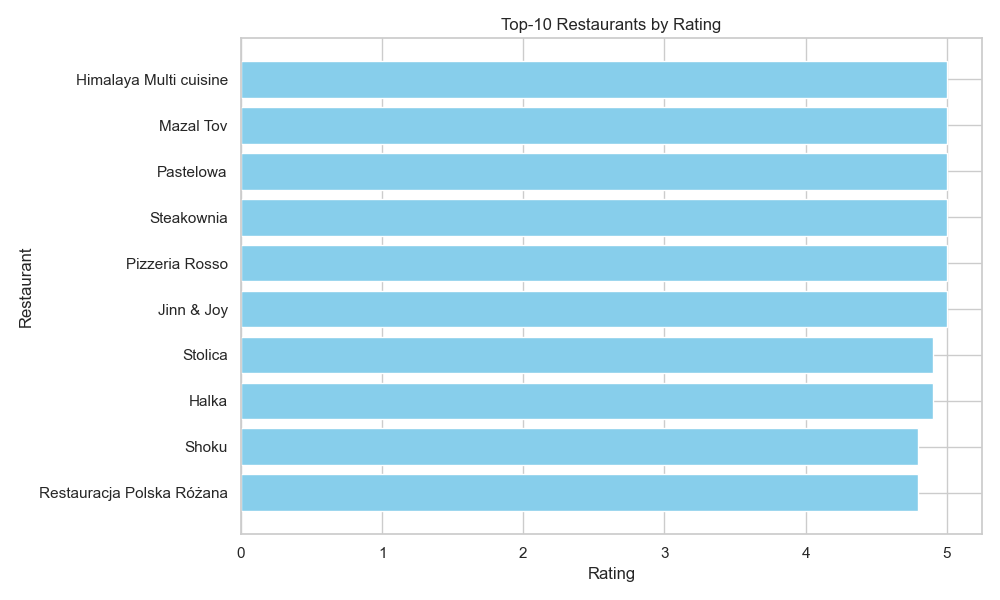
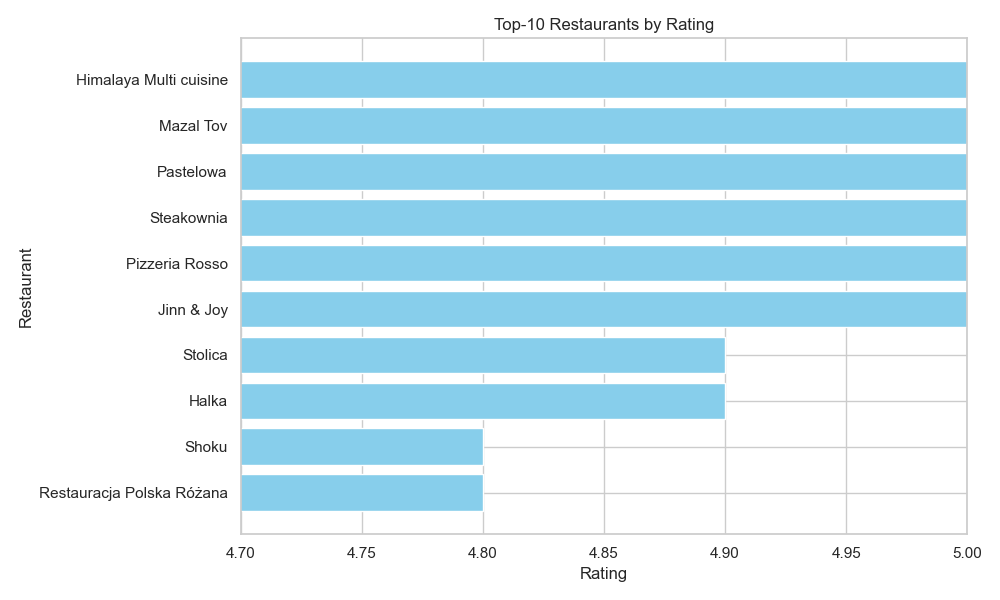
Update top 10 rating chart with custom x-axis scale

diff --git a/sql_analysis.py b/sql_analysis.py
@@ -127,6 +127,7 @@ try:
     plt.title("Top-10 Restaurants by Rating")
     plt.xlabel("Rating")
     plt.ylabel("Restaurant")
+    plt.xlim(4.7, 5)
     plt.tight_layout()
     plt.savefig("plots/plot_top10_rating.png")
     plt.close()
@@ -136,10 +137,10 @@ except Exception as e:
 
 try:
     plt.figure(figsize=(8, 5))
-    sns.countplot(x="price_clean", data=df1, order=["Cheap", "Moderate", "Expensive", "Luxury"])
-    plt.title("Restaurants by Price Category")
+    sns.barplot(x="price_clean", y="COUNT (*)", data=df1, palette="viridis")
+    plt.title("Number of Restaurants by Price Category")
     plt.xlabel("Price Category")
-    plt.ylabel("Count")
+    plt.ylabel("Number of Restaurants")
     plt.tight_layout()
     plt.savefig("plots/plot_by_price.png")
     plt.close()
